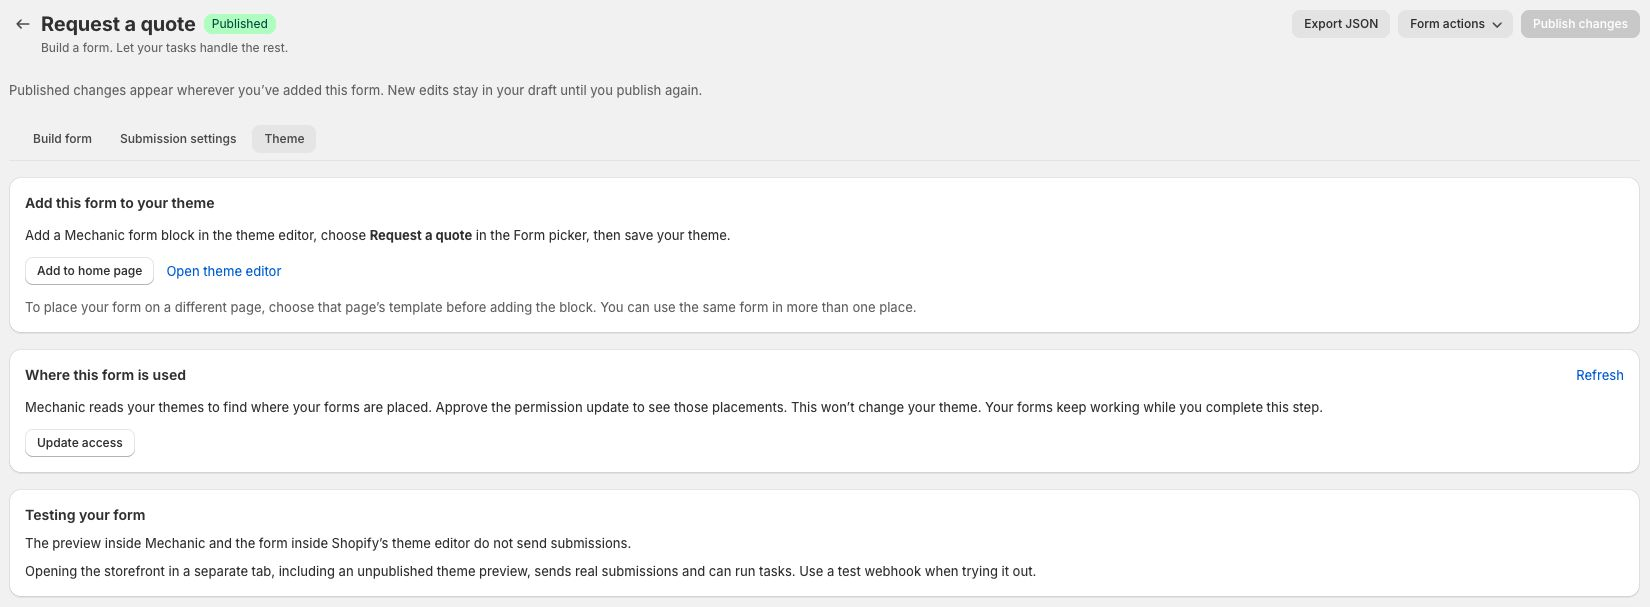
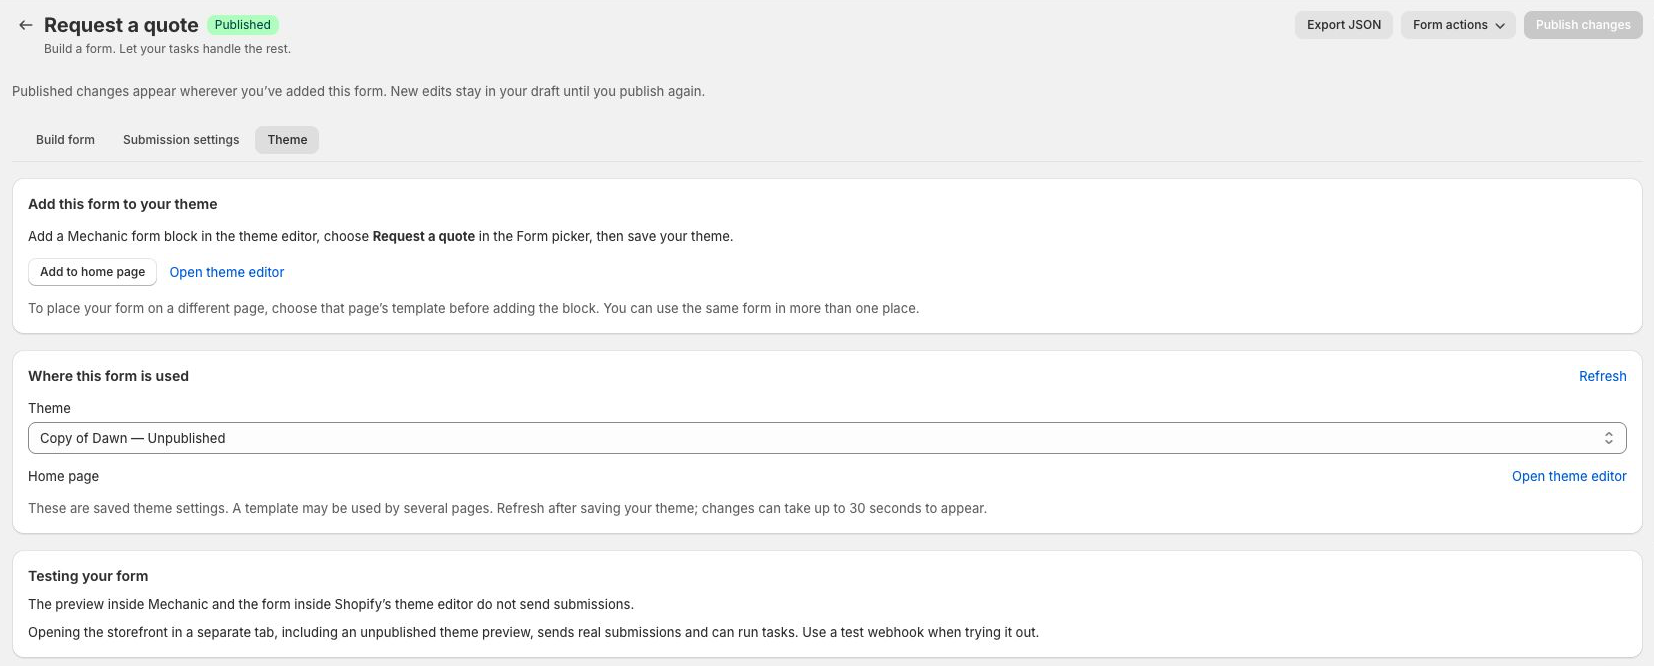
Focus form guide screenshots on relevant controls

diff --git a/app/forms.md b/app/forms.md
@@ -130,7 +130,7 @@ Saving a form adds permission to read your themes to Mechanic’s required acces
 
 Choose **Refresh** after saving a theme. Results can take up to 30 seconds to update. Unsaved editor changes are not included. Blocks that choose their form through connected data can vary by page and cannot be attributed to one form; Mechanic explains when a check includes those blocks. A failed check is not evidence that the form is unused.
 
-<figure><img src="../.gitbook/assets/storefront-forms-theme.png" alt="The form's Theme tab showing placement instructions and an explanation of the theme-read permission"><figcaption><p>The Theme tab brings setup and placement checks together. If access is needed, Mechanic explains why before you approve it.</p></figcaption></figure>
+<figure><img src="../.gitbook/assets/storefront-forms-theme.png" alt="The quote form's Theme tab showing a saved Home page placement in an unpublished copy of Dawn"><figcaption><p>Choose a theme to see its saved placements. This quote form is on the Home page of an unpublished theme; the link opens that theme in the editor.</p></figcaption></figure>
 
 ### Test without surprises
 
